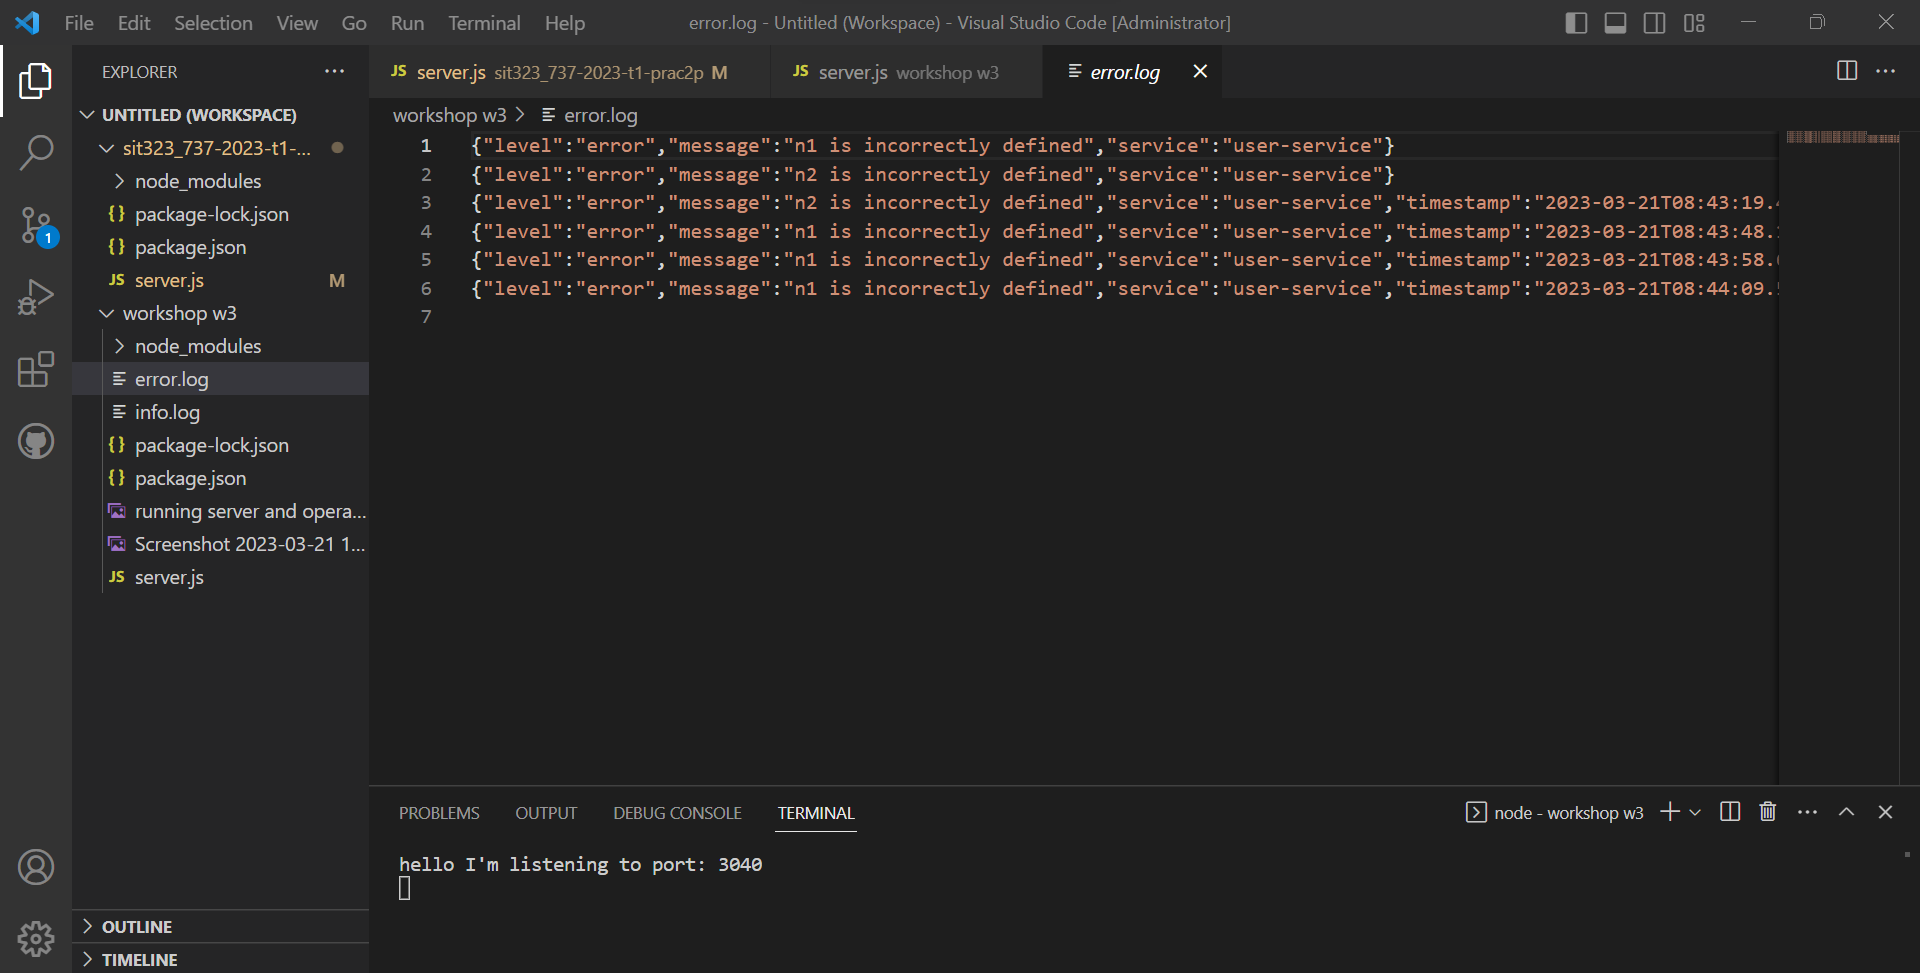
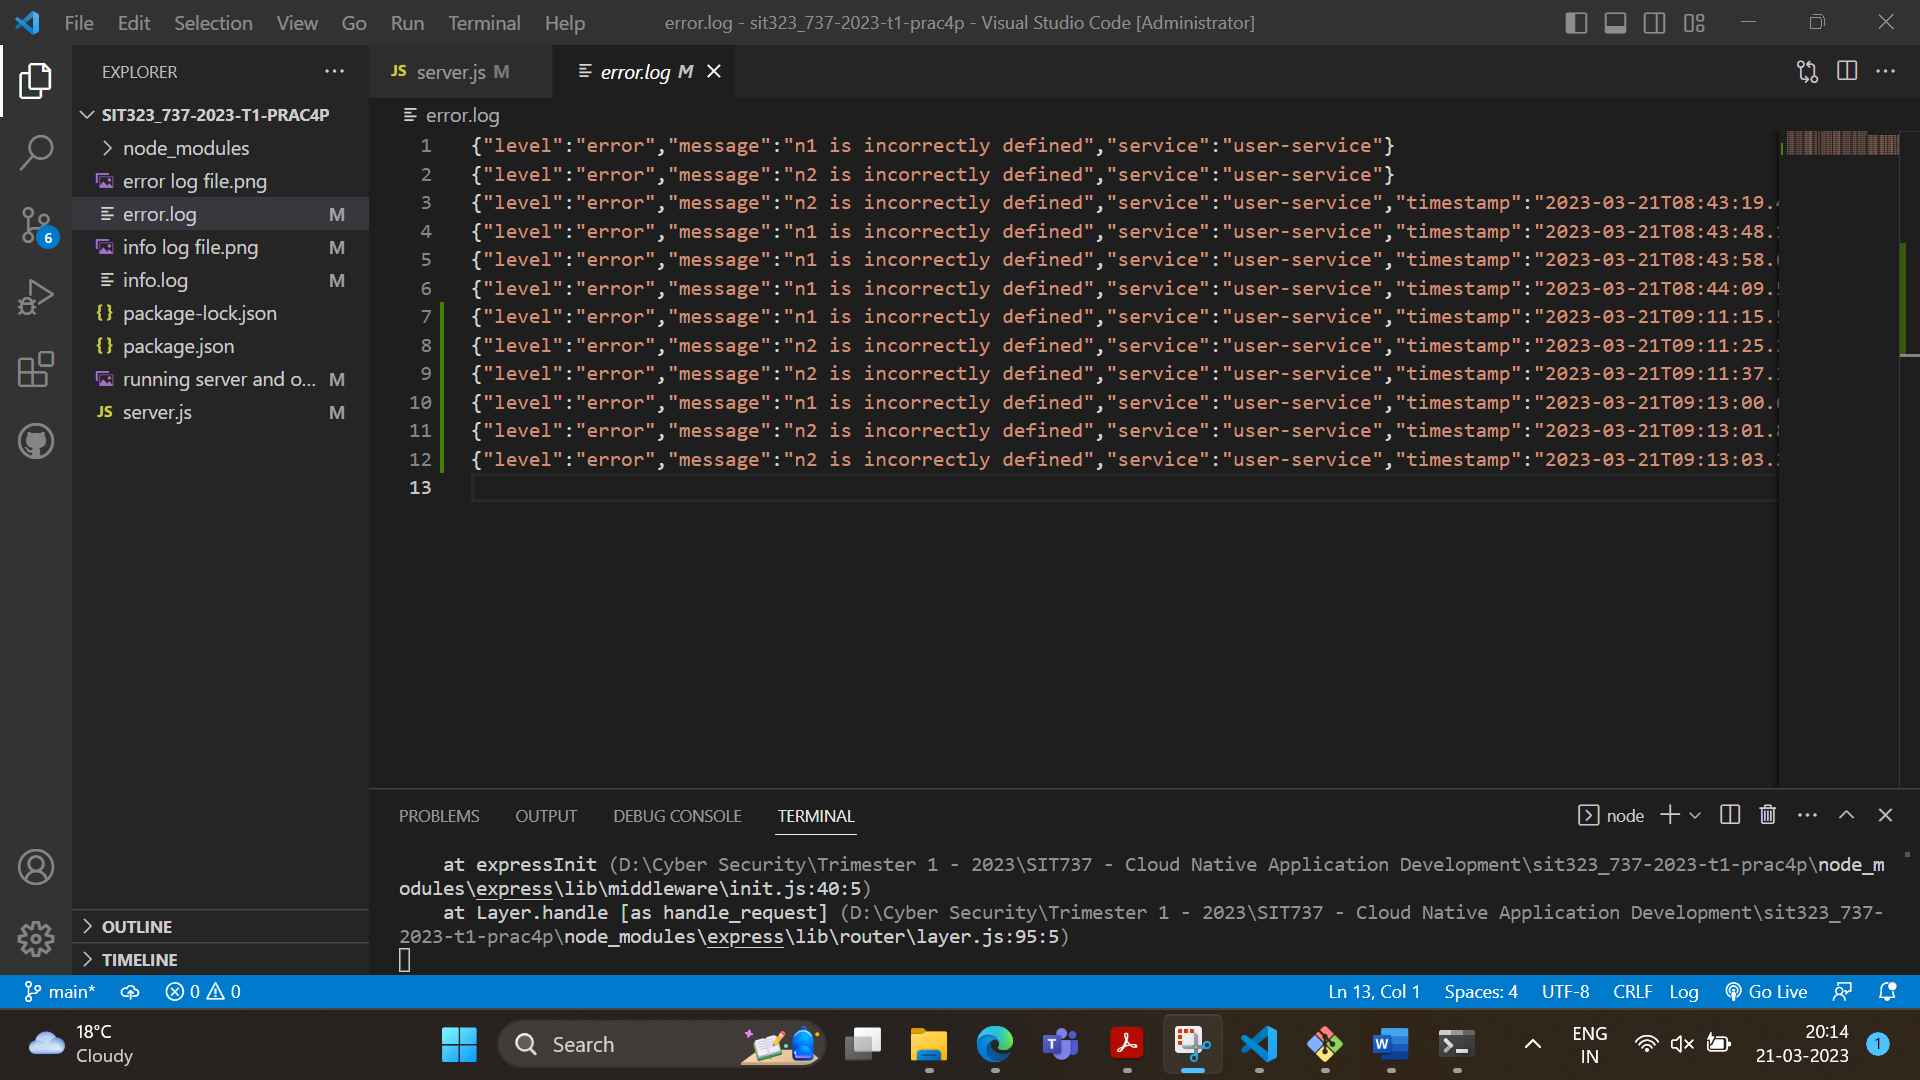
workshop3_revised

diff --git a/server.js b/server.js
@@ -82,54 +82,7 @@ app.get("/subtract", (req,res)=>{
     try{
         const n1= parseFloat(req.query.n1);
         const n2= parseFloat(req.query.n2);
-        if(isNaN(n1)){
-            throw new Error("n1 is incorrectly defined");
-        }
-        if(isNaN(n2)){
-            throw new Error("n2 is incorrectly defined");
-        }
-
-        if (n1 === NaN || n2 === NaN) {
-            console.log()
-            throw new Error("Parsing Error");
-        }
-        
-        const result = subtract(n1,n2);
-        res.status(200).json({statuscode:200, data: result });
-    } catch(error) {
-        console.log(error)
-        res.status(500).json({statuscode:500, msg: error.toString() })
-    }
-});
-
-app.get("/multiply", (req,res)=>{
-    try{
-        const n1= parseFloat(req.query.n1);
-        const n2= parseFloat(req.query.n2);
-        if(isNaN(n1)){
-            throw new Error("n1 is incorrectly defined");
-        }
-        if(isNaN(n2)){
-            throw new Error("n2 is incorrectly defined");
-        }
-
-        if (n1 === NaN || n2 === NaN) {
-            console.log()
-            throw new Error("Parsing Error");
-        }
-        
-        const result = multiply(n1,n2);
-        res.status(200).json({statuscode:200, data: result });
-    } catch(error) {
-        console.log(error)
-        res.status(500).json({statuscode:500, msg: error.toString() })
-    }
-});
-
-app.get("/divide", (req,res)=>{
-    try{
-        const n1= parseFloat(req.query.n1);
-        const n2= parseFloat(req.query.n2);
+        logger.info(`New subtraction operation requested:`);
         if(isNaN(n1)){
             logger.error("n1 is incorrectly defined");
             throw new Error("n1 is incorrectly defined");
@@ -144,8 +97,70 @@ app.get("/divide", (req,res)=>{
             logger.error("Parsing error");
             throw new Error("Parsing Error");
         }
+        logger.info(`Performing subtraction operation: ${n1} - ${n2}`);
         
+        const result = subtract(n1,n2);
+        logger.info(`Result of subtraction operation: ${result}`);
+        res.status(200).json({statuscode:200, data: result });
+    } catch(error) {
+        console.log(error)
+        res.status(500).json({statuscode:500, msg: error.toString() })
+    }
+});
+
+app.get("/multiply", (req,res)=>{
+    try{
+        const n1= parseFloat(req.query.n1);
+        const n2= parseFloat(req.query.n2);
+        logger.info(`New multiplication operation requested:`);
+        if(isNaN(n1)){
+            logger.error("n1 is incorrectly defined");
+            throw new Error("n1 is incorrectly defined");
+        }
+        if(isNaN(n2)){
+            logger.error("n2 is incorrectly defined");
+            throw new Error("n2 is incorrectly defined");
+        }
+
+        if (n1 === NaN || n2 === NaN) {
+            console.log()
+            logger.error("Parsing error");
+            throw new Error("Parsing Error");
+        }
+        logger.info(`Performing multiplication operation: ${n1} * ${n2}`);
+        
+        const result = multiply(n1,n2);
+        logger.info(`Result of multiplication operation: ${result}`);
+        res.status(200).json({statuscode:200, data: result });
+    } catch(error) {
+        console.log(error)
+        res.status(500).json({statuscode:500, msg: error.toString() })
+    }
+});
+
+app.get("/divide", (req,res)=>{
+    try{
+        const n1= parseFloat(req.query.n1);
+        const n2= parseFloat(req.query.n2);
+        logger.info(`New division operation requested:`);
+        if(isNaN(n1)){
+            logger.error("n1 is incorrectly defined");
+            throw new Error("n1 is incorrectly defined");
+        }
+        if(isNaN(n2)){
+            logger.error("n2 is incorrectly defined");
+            throw new Error("n2 is incorrectly defined");
+        }
+
+        if (n1 === NaN || n2 === NaN) {
+            console.log()
+            logger.error("Parsing error");
+            throw new Error("Parsing Error");
+        }
+        logger.info(`Performing division operation: ${n1} * ${n2}`);
+
         const result = divide(n1,n2);
+        logger.info(`Result of division operation: ${result}`);
         res.status(200).json({statuscode:200, data: result });
     } catch(error) {
         console.log(error)
